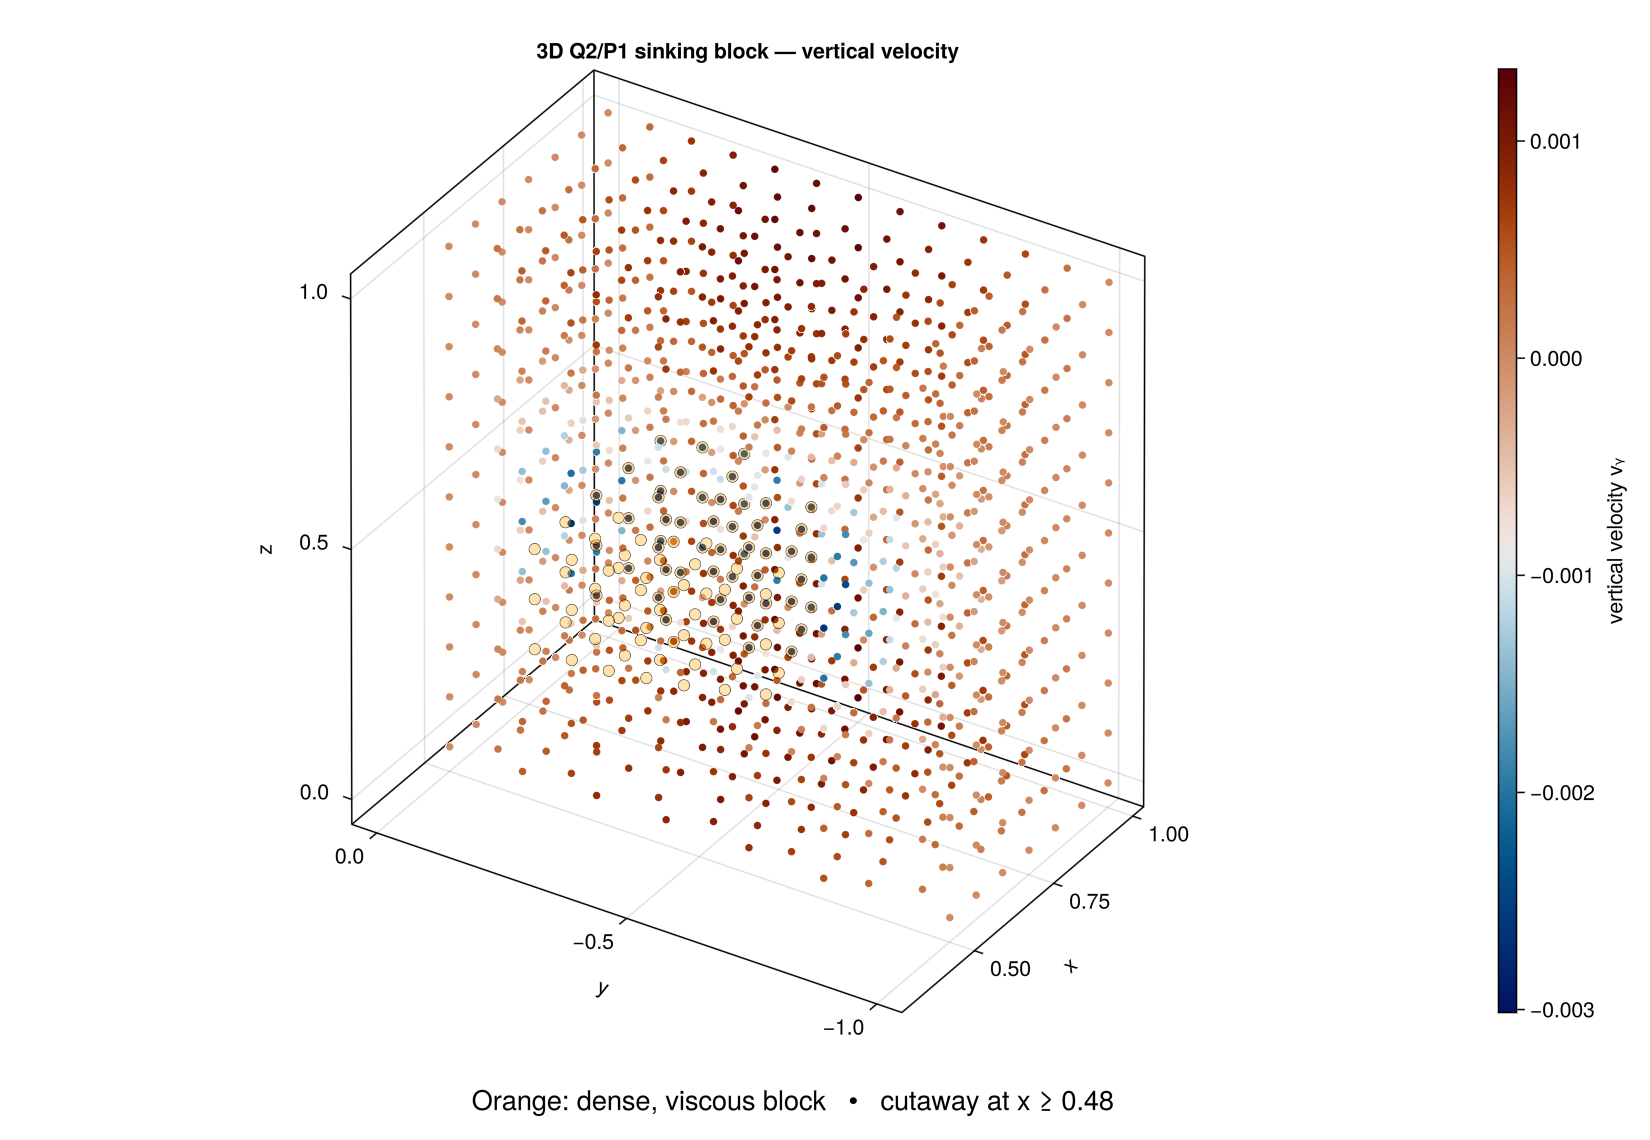
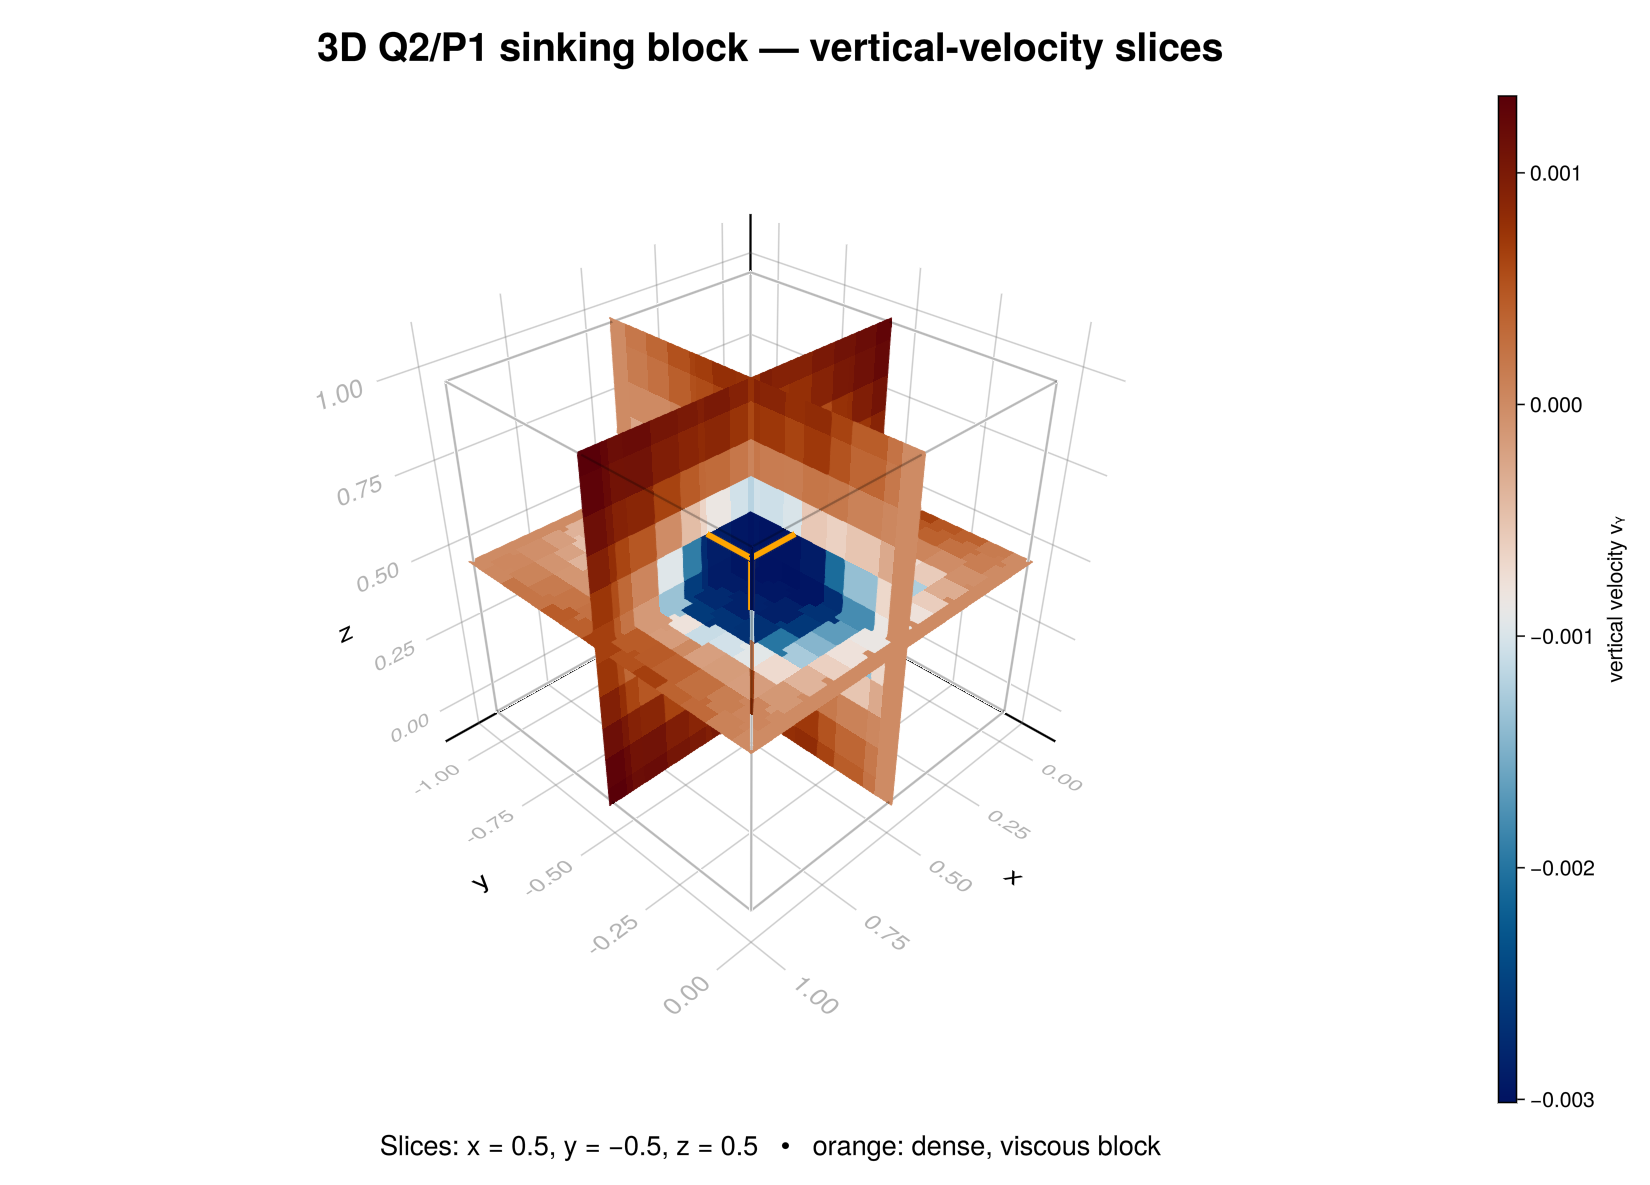
Use volume slices for 3D sinking block figure

diff --git a/docs/src/sinking_block.md b/docs/src/sinking_block.md
@@ -53,7 +53,7 @@ The default problem contains 225 Hex27 cells and 2,255 velocity nodes. Its
 ``2.5\times10^{-15}``. The script writes `stokes_3D_sinking_block.vtk` with
 the three velocity components, cell-centre pressure, and material phase.
 
-![Cutaway of the 3-D sinking-block solution. Velocity nodes are coloured by vertical velocity; orange nodes mark the dense, viscous block.](assets/stokes_sinking_block_3d.png)
+![Orthogonal volume slices through the 3-D vertical-velocity field at the block centre. The orange wireframe marks the dense, viscous block.](assets/stokes_sinking_block_3d.png)
 
 The blue region around the block has negative vertical velocity, while the
 wall-normal velocity is exactly zero on every boundary face.
